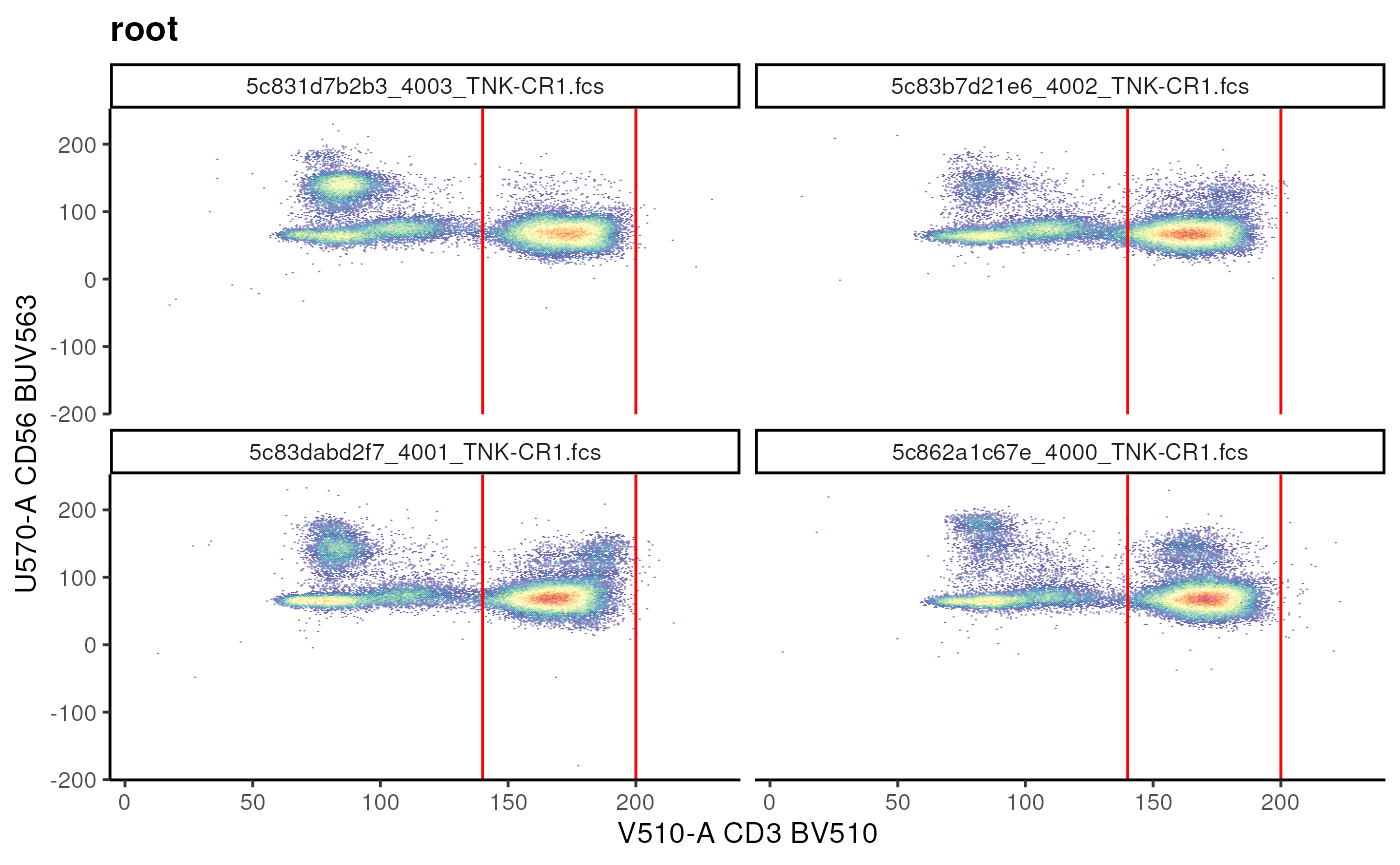
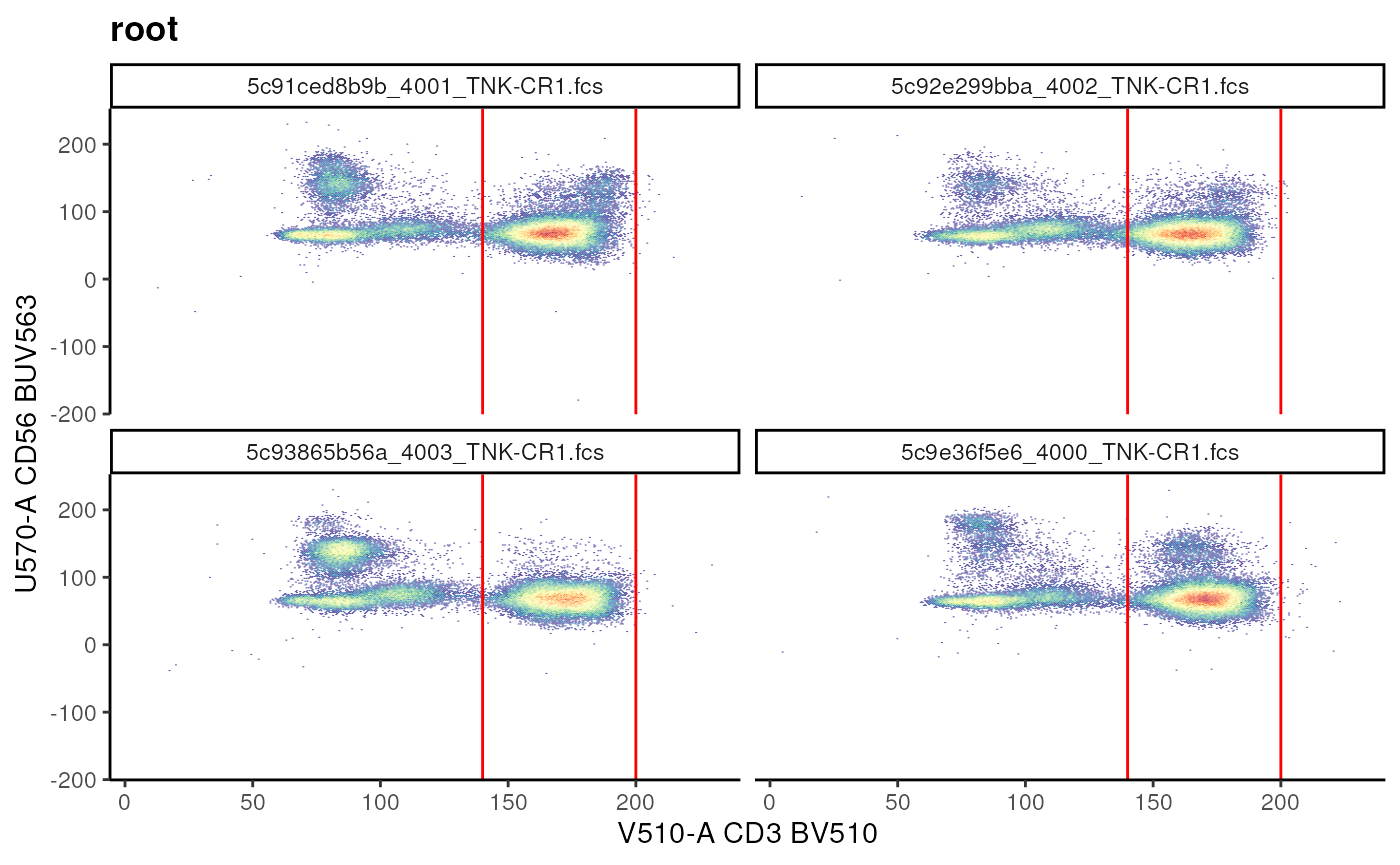
Deploying to gh-pages from @ OzetteTech/cytoverse-bioc-2023@b76cd84ef16141cb44a5bfda59f96768b3cb4942 🚀

diff --git a/articles/1_Import_fcs.html b/articles/1_Import_fcs.html
@@ -308,7 +308,7 @@ examine it with
 <span></span>
 <span><span class="co"># a cytoframe object</span></span>
 <span><span class="va">cf</span></span></code></pre></div>
-<pre><code><span><span class="co">## cytoframe object '5c862a1c67e_4000_TNK-CR1.fcs'</span></span>
+<pre><code><span><span class="co">## cytoframe object '5c9e36f5e6_4000_TNK-CR1.fcs'</span></span>
 <span><span class="co">## with 102015 cells and 33 observables:</span></span>
 <span><span class="co">##                   name            desc     range  minRange  maxRange</span></span>
 <span><span class="co">## $P1              FSC-A              NA    262143    0.0000    262143</span></span>
@@ -560,7 +560,7 @@ expression matrix <code>exprs(cf)</code> as well as the columns of the
 <code class="sourceCode R"><span><span class="co"># subset cytorame by column</span></span>
 <span><span class="va">s_cf</span> <span class="op">&lt;-</span> <span class="va">cf</span><span class="op">[</span>, <span class="va">CD4_chan</span><span class="op">]</span></span>
 <span><span class="va">s_cf</span></span></code></pre></div>
-<pre><code><span><span class="co">## cytoframe object '5c862a1c67e_4000_TNK-CR1.fcs'</span></span>
+<pre><code><span><span class="co">## cytoframe object '5c9e36f5e6_4000_TNK-CR1.fcs'</span></span>
 <span><span class="co">## with 102015 cells and 1 observables:</span></span>
 <span><span class="co">##        name       desc     range  minRange  maxRange</span></span>
 <span><span class="co">## $P23 U785-A CD4 BUV805    262143  -80.5002    262143</span></span>
@@ -571,7 +571,7 @@ expression matrix <code>exprs(cf)</code> as well as the columns of the
 <code class="sourceCode R"><span><span class="co"># subset cytoframe by row</span></span>
 <span><span class="va">s2_cf</span> <span class="op">&lt;-</span> <span class="va">cf</span><span class="op">[</span><span class="fl">1</span><span class="op">:</span><span class="fl">100</span>, <span class="op">]</span></span>
 <span><span class="va">s2_cf</span></span></code></pre></div>
-<pre><code><span><span class="co">## cytoframe object '5c862a1c67e_4000_TNK-CR1.fcs'</span></span>
+<pre><code><span><span class="co">## cytoframe object '5c9e36f5e6_4000_TNK-CR1.fcs'</span></span>
 <span><span class="co">## with 100 cells and 33 observables:</span></span>
 <span><span class="co">##                   name            desc     range  minRange  maxRange</span></span>
 <span><span class="co">## $P1              FSC-A              NA    262143    0.0000    262143</span></span>
@@ -748,12 +748,12 @@ the <code>sampleNames</code> of the <code>cytoset</code>.</p>
 <code class="sourceCode R"><span><span class="co"># prior to providing metadata</span></span>
 <span><span class="fu"><a href="https://rdrr.io/pkg/Biobase/man/phenoData.html" class="external-link">pData</a></span><span class="op">(</span><span class="va">cs</span><span class="op">)</span></span></code></pre></div>
 <pre><code><span><span class="co">##                                                      name</span></span>
-<span><span class="co">## 5c86928c79a_4000_BDC-CR1.fcs 5c86928c79a_4000_BDC-CR1.fcs</span></span>
-<span><span class="co">## 5c862a1c67e_4000_TNK-CR1.fcs 5c862a1c67e_4000_TNK-CR1.fcs</span></span>
-<span><span class="co">## 5c8236c43b1_4001_BDC-CR1.fcs 5c8236c43b1_4001_BDC-CR1.fcs</span></span>
-<span><span class="co">## 5c83dabd2f7_4001_TNK-CR1.fcs 5c83dabd2f7_4001_TNK-CR1.fcs</span></span>
-<span><span class="co">## 5c83b7d21e6_4002_TNK-CR1.fcs 5c83b7d21e6_4002_TNK-CR1.fcs</span></span>
-<span><span class="co">## 5c831d7b2b3_4003_TNK-CR1.fcs 5c831d7b2b3_4003_TNK-CR1.fcs</span></span></code></pre>
+<span><span class="co">## 5c927d6859f_4000_BDC-CR1.fcs 5c927d6859f_4000_BDC-CR1.fcs</span></span>
+<span><span class="co">## 5c9e36f5e6_4000_TNK-CR1.fcs   5c9e36f5e6_4000_TNK-CR1.fcs</span></span>
+<span><span class="co">## 5c92e2fc2c8_4001_BDC-CR1.fcs 5c92e2fc2c8_4001_BDC-CR1.fcs</span></span>
+<span><span class="co">## 5c91ced8b9b_4001_TNK-CR1.fcs 5c91ced8b9b_4001_TNK-CR1.fcs</span></span>
+<span><span class="co">## 5c92e299bba_4002_TNK-CR1.fcs 5c92e299bba_4002_TNK-CR1.fcs</span></span>
+<span><span class="co">## 5c93865b56a_4003_TNK-CR1.fcs 5c93865b56a_4003_TNK-CR1.fcs</span></span></code></pre>
 <div class="sourceCode" id="cb46"><pre class="downlit sourceCode r">
 <code class="sourceCode R"><span><span class="co"># create metadata</span></span>
 <span><span class="va">metadata</span> <span class="op">&lt;-</span> <span class="fu"><a href="https://rdrr.io/r/base/data.frame.html" class="external-link">data.frame</a></span><span class="op">(</span></span>
@@ -784,12 +784,12 @@ the <code>sampleNames</code> of the <code>cytoset</code>.</p>
 <span><span class="fu"><a href="https://rdrr.io/pkg/Biobase/man/phenoData.html" class="external-link">pData</a></span><span class="op">(</span><span class="va">cs</span><span class="op">)</span> <span class="op">&lt;-</span> <span class="va">metadata</span></span>
 <span><span class="fu"><a href="https://rdrr.io/pkg/Biobase/man/phenoData.html" class="external-link">pData</a></span><span class="op">(</span><span class="va">cs</span><span class="op">)</span></span></code></pre></div>
 <pre><code><span><span class="co">##                              Treatment         panel</span></span>
-<span><span class="co">## 5c86928c79a_4000_BDC-CR1.fcs Untreated Myeloid Panel</span></span>
-<span><span class="co">## 5c862a1c67e_4000_TNK-CR1.fcs Untreated  T Cell Panel</span></span>
-<span><span class="co">## 5c8236c43b1_4001_BDC-CR1.fcs Untreated Myeloid Panel</span></span>
-<span><span class="co">## 5c83dabd2f7_4001_TNK-CR1.fcs Untreated  T Cell Panel</span></span>
-<span><span class="co">## 5c83b7d21e6_4002_TNK-CR1.fcs Untreated  T Cell Panel</span></span>
-<span><span class="co">## 5c831d7b2b3_4003_TNK-CR1.fcs   Treated  T Cell Panel</span></span></code></pre>
+<span><span class="co">## 5c927d6859f_4000_BDC-CR1.fcs Untreated Myeloid Panel</span></span>
+<span><span class="co">## 5c9e36f5e6_4000_TNK-CR1.fcs  Untreated  T Cell Panel</span></span>
+<span><span class="co">## 5c92e2fc2c8_4001_BDC-CR1.fcs Untreated Myeloid Panel</span></span>
+<span><span class="co">## 5c91ced8b9b_4001_TNK-CR1.fcs   Treated  T Cell Panel</span></span>
+<span><span class="co">## 5c92e299bba_4002_TNK-CR1.fcs Untreated  T Cell Panel</span></span>
+<span><span class="co">## 5c93865b56a_4003_TNK-CR1.fcs Untreated  T Cell Panel</span></span></code></pre>
 <p>The benefit of having metadata is that we can use many of the
 sub-setting operations in a metadata specific manner.</p>
 <p>This is much more convenient than going back and forth between the
@@ -806,8 +806,8 @@ full set of files.</p>
 <div class="sourceCode" id="cb53"><pre class="downlit sourceCode r">
 <code class="sourceCode R"><span><span class="fu"><a href="https://rdrr.io/pkg/Biobase/man/phenoData.html" class="external-link">pData</a></span><span class="op">(</span><span class="va">cs_myeloid</span><span class="op">)</span></span></code></pre></div>
 <pre><code><span><span class="co">##                              Treatment         panel</span></span>
-<span><span class="co">## 5c86928c79a_4000_BDC-CR1.fcs Untreated Myeloid Panel</span></span>
-<span><span class="co">## 5c8236c43b1_4001_BDC-CR1.fcs Untreated Myeloid Panel</span></span></code></pre>
+<span><span class="co">## 5c927d6859f_4000_BDC-CR1.fcs Untreated Myeloid Panel</span></span>
+<span><span class="co">## 5c92e2fc2c8_4001_BDC-CR1.fcs Untreated Myeloid Panel</span></span></code></pre>
 <div class="section level3">
 <h3 id="cytoset-views-and-aliasing">Cytoset views and aliasing<a class="anchor" aria-label="anchor" href="#cytoset-views-and-aliasing"></a>
 </h3>
@@ -856,10 +856,10 @@ To confirm this, you can use <code>cs_get_uri</code> or
 <code>cf_get_uri</code>:</p>
 <div class="sourceCode" id="cb63"><pre class="downlit sourceCode r">
 <code class="sourceCode R"><span><span class="fu"><a href="https://rdrr.io/pkg/flowWorkspace/man/cs_get_uri.html" class="external-link">cs_get_uri</a></span><span class="op">(</span><span class="va">cs_small</span><span class="op">)</span></span></code></pre></div>
-<pre><code><span><span class="co">## [1] "/tmp/RtmpeJDjKZ/79b04f6d-3f6b-4dee-95c2-bf4474b736d8"</span></span></code></pre>
+<pre><code><span><span class="co">## [1] "/tmp/RtmphwE1TO/15bc65f3-94be-4498-8a66-ee3737eee9f6"</span></span></code></pre>
 <div class="sourceCode" id="cb65"><pre class="downlit sourceCode r">
 <code class="sourceCode R"><span><span class="fu"><a href="https://rdrr.io/pkg/flowWorkspace/man/cs_get_uri.html" class="external-link">cs_get_uri</a></span><span class="op">(</span><span class="va">cs</span><span class="op">)</span></span></code></pre></div>
-<pre><code><span><span class="co">## [1] "/tmp/RtmpeJDjKZ/79b04f6d-3f6b-4dee-95c2-bf4474b736d8"</span></span></code></pre>
+<pre><code><span><span class="co">## [1] "/tmp/RtmphwE1TO/15bc65f3-94be-4498-8a66-ee3737eee9f6"</span></span></code></pre>
 <p>To perform a <strong>deep copy</strong> we can use
 <code><a href="https://rdrr.io/pkg/flowWorkspace/man/cytoframe.html" class="external-link">realize_view()</a></code></p>
 <div class="sourceCode" id="cb67"><pre class="downlit sourceCode r">
@@ -965,12 +965,12 @@ attempted to be coerced to a single array like object. (Set
 <span><span class="va">n_cell_events</span> <span class="op">&lt;-</span> <span class="fu"><a href="https://rdrr.io/pkg/flowCore/man/fsApply.html" class="external-link">fsApply</a></span><span class="op">(</span><span class="va">cs</span>, <span class="va">nrow</span><span class="op">)</span></span>
 <span><span class="va">n_cell_events</span></span></code></pre></div>
 <pre><code><span><span class="co">##                                [,1]</span></span>
-<span><span class="co">## 5c86928c79a_4000_BDC-CR1.fcs 912254</span></span>
-<span><span class="co">## 5c862a1c67e_4000_TNK-CR1.fcs 102015</span></span>
-<span><span class="co">## 5c8236c43b1_4001_BDC-CR1.fcs 924474</span></span>
-<span><span class="co">## 5c83dabd2f7_4001_TNK-CR1.fcs  92703</span></span>
-<span><span class="co">## 5c83b7d21e6_4002_TNK-CR1.fcs 372224</span></span>
-<span><span class="co">## 5c831d7b2b3_4003_TNK-CR1.fcs 146150</span></span></code></pre>
+<span><span class="co">## 5c927d6859f_4000_BDC-CR1.fcs 912254</span></span>
+<span><span class="co">## 5c9e36f5e6_4000_TNK-CR1.fcs  102015</span></span>
+<span><span class="co">## 5c92e2fc2c8_4001_BDC-CR1.fcs 924474</span></span>
+<span><span class="co">## 5c91ced8b9b_4001_TNK-CR1.fcs  92703</span></span>
+<span><span class="co">## 5c92e299bba_4002_TNK-CR1.fcs 372224</span></span>
+<span><span class="co">## 5c93865b56a_4003_TNK-CR1.fcs 146150</span></span></code></pre>
 <div class="section level3">
 <h3 id="exercises">Exercises<a class="anchor" aria-label="anchor" href="#exercises"></a>
 </h3>
